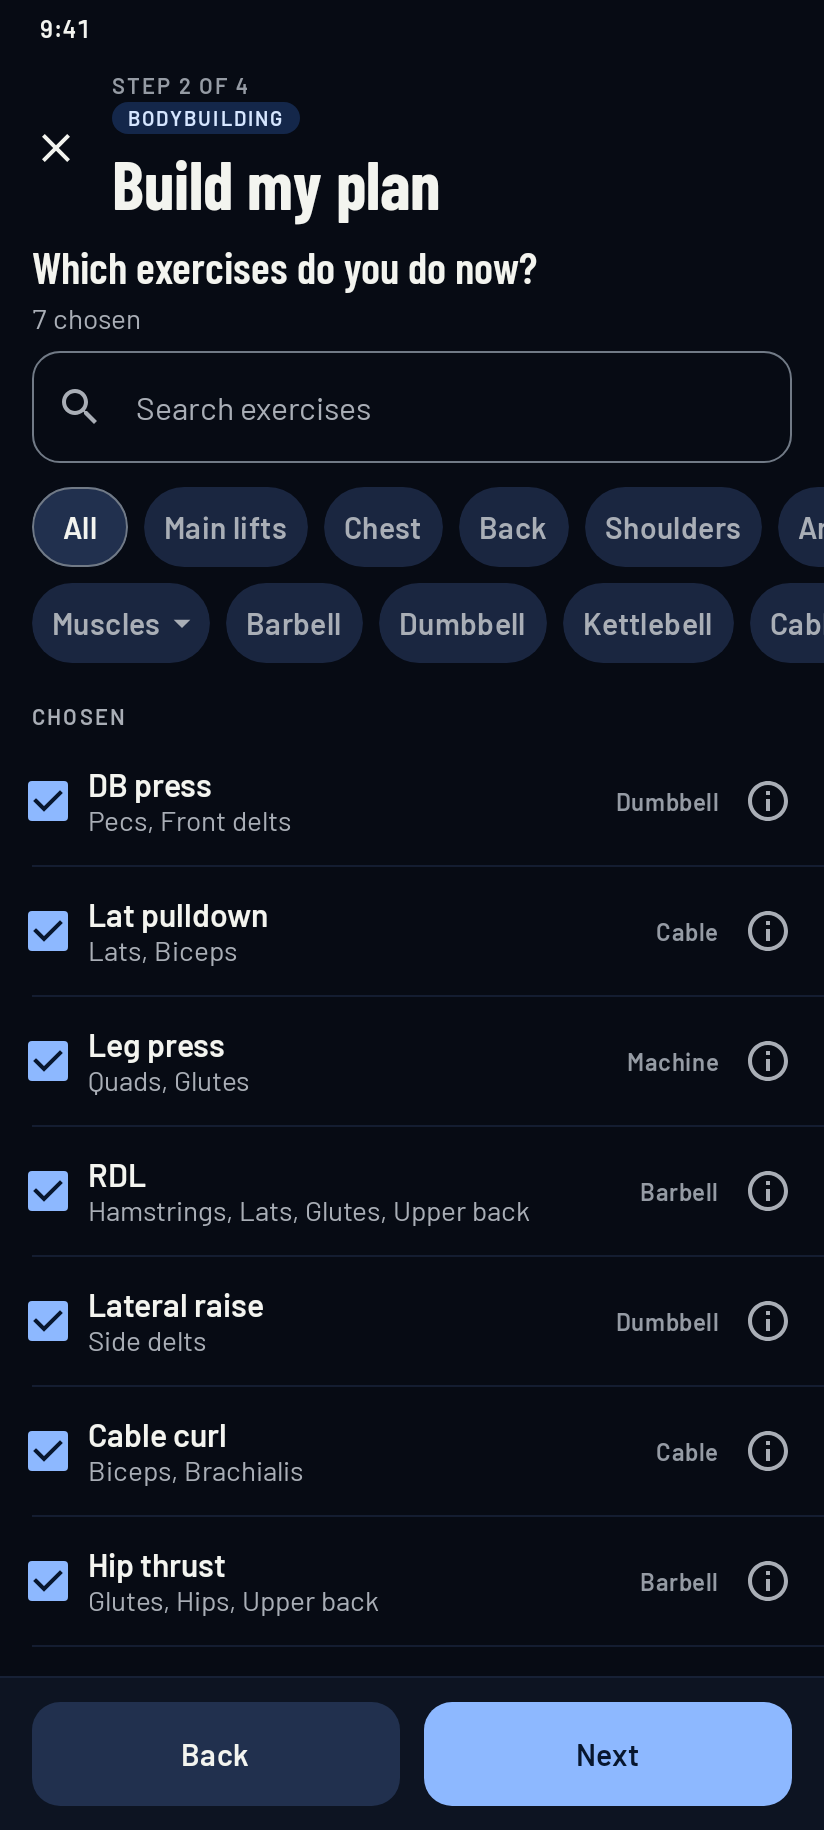
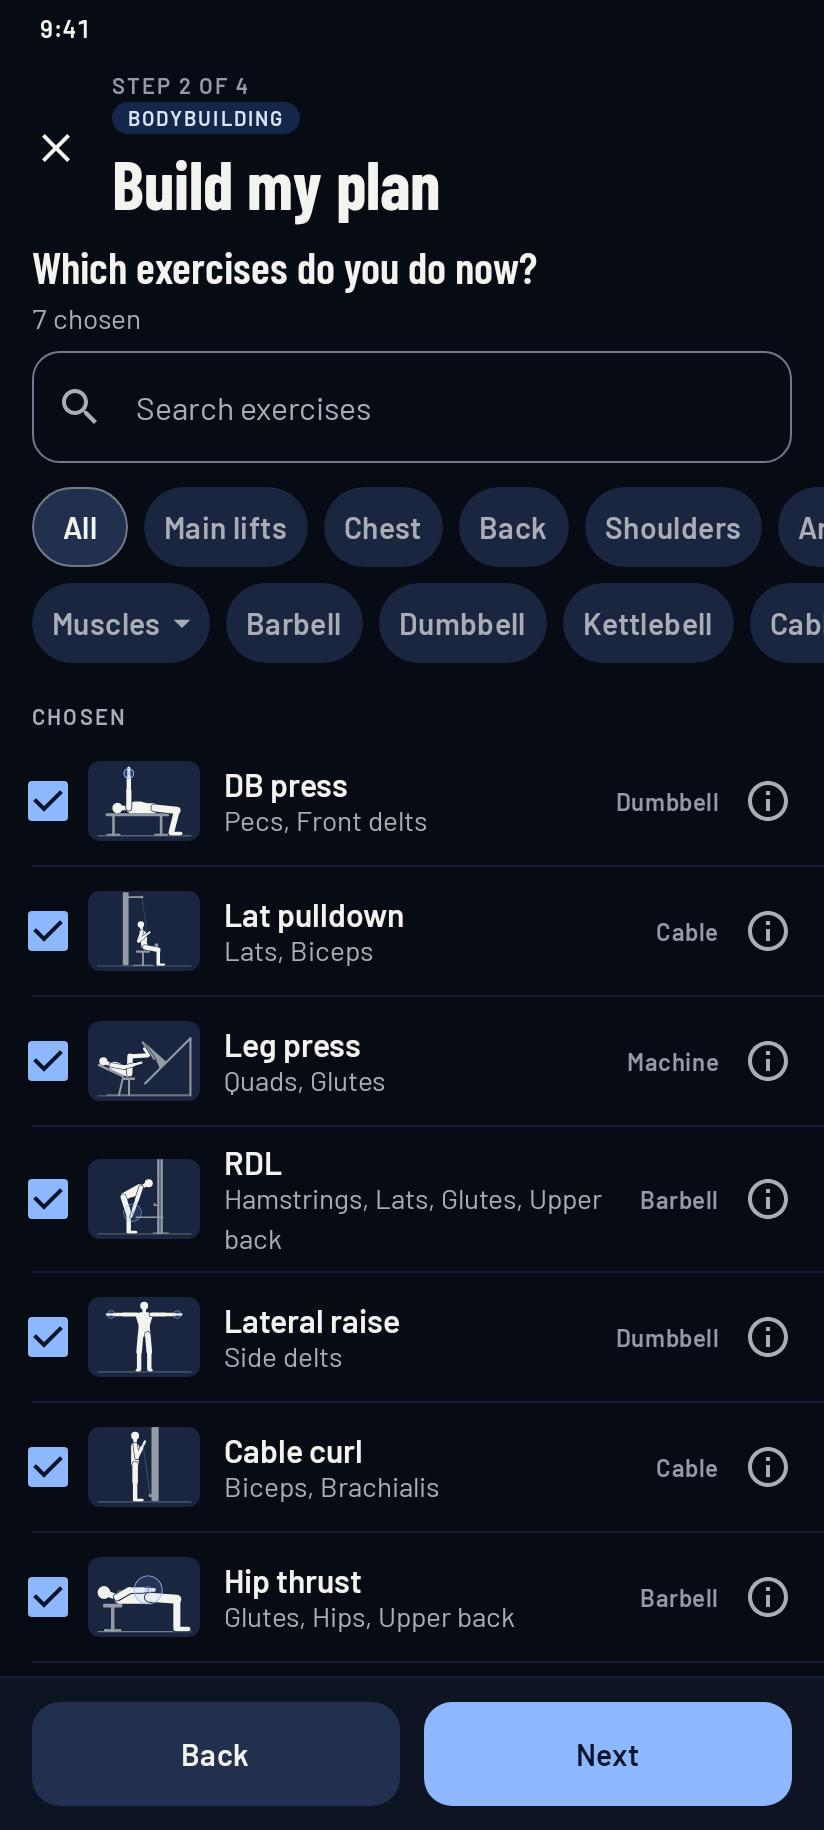
feat(app): thumbnails in the plan builder
The plan builder's exercise list leads each row with the thumbnail, as the
tab and the picker do. A ticked row also has its tick box, so on a screen
under 360 dp wide it shows no thumbnail and no empty tile: there the names
would otherwise break inside a word. The tab and the picker are unchanged
at every width.

Claude-Session: https://claude.ai/code/session_01KboHw6FdBYrNDSMx1QWyzy

diff --git a/app/src/test/kotlin/com/powertracker/ui/library/ExercisePictureTest.kt b/app/src/test/kotlin/com/powertracker/ui/library/ExercisePictureTest.kt
@@ -69,8 +69,8 @@ import org.robolectric.annotation.GraphicsMode
 import kotlin.math.abs
 
 /**
- * The exercise pictures: the two-pose picture in the guide sheet and the thumbnails on the Exercises tab and in the
- * picker. "Bench" is the exercise with a figure; a lookup that finds nothing stands in for one without.
+ * The exercise pictures: the two-pose picture in the guide sheet and the thumbnails on the Exercises tab, in the picker
+ * and in the plan builder. "Bench" is the exercise with a figure; a lookup that finds nothing stands in for one without.
  */
 // Native graphics, so text is measured at its real size and the canvas really draws: the checks here depend on both.
 @RunWith(RobolectricTestRunner::class)
@@ -315,6 +315,116 @@ class ExercisePictureTest {
             assertFalse("$side: nothing is drawn for it", drawnIn("exercise-Tyre flip"))
             assertEquals("$side: names stay aligned", benchName.left, textIn("exercise-Tyre flip", "Tyre flip").boundsInRoot.left, 0.5f)
         }
+    }
+
+    /** The names that broke inside a word in a ticked row at 320 dp with a thumbnail beside them. */
+    private val longNames = listOf(
+        "Safety-bar squat", "Chest-supported row", "Chest-supported T-bar row", "Neutral-grip pull-up",
+        "Chest-supported rear delt raise", "Smith shoulder press", "Concentration curl", "Bodyweight squat",
+    )
+
+    /** The plan builder's exercises step with [longNames] stored and ticked: each is under "Chosen" and in the list. */
+    private fun showBuilderWithLongNamesTicked() {
+        val stored = longNames.mapIndexed { i, n ->
+            val lib = Library.find(n)!!
+            Exercise(100L + i, lib.name, lib.category, lib.parentLift, lib.muscles, isBuiltIn = true)
+        }
+        val entries = stored.map(com.powertracker.ui.plan.builder.PlanBuilderViewModel::entryFor)
+        val ticked = entries.associate { com.powertracker.ui.plan.builder.pickKey(it) to com.powertracker.ui.plan.builder.PlanBuilderViewModel.chosen(it) }
+        val state = com.powertracker.ui.plan.builder.PlanBuilderState(
+            loading = false,
+            mode = TrainingMode.BODYBUILDING,
+            step = com.powertracker.ui.plan.builder.BuilderStep.EXERCISES,
+            exercises = stored,
+            recentIds = stored.map { it.id },
+            ticked = ticked,
+        )
+        mode = TrainingMode.BODYBUILDING
+        show {
+            com.powertracker.ui.plan.builder.PlanBuilderContent(
+                state,
+                com.powertracker.ui.plan.builder.PlanBuilderActions(isTicked = { com.powertracker.ui.plan.builder.pickKey(it) in state.ticked }),
+            )
+        }
+    }
+
+    /** [name] in [row] wraps only between words (or after a hyphen), never inside one. */
+    private fun assertNameWhole(row: String, name: String) {
+        val node = textIn(row, name)
+        val layouts = mutableListOf<TextLayoutResult>()
+        node.config[SemanticsActions.GetTextLayoutResult].action!!.invoke(layouts)
+        val layout = layouts.single()
+        val lines = (0 until layout.lineCount).map { name.substring(layout.getLineStart(it), layout.getLineEnd(it)) }
+        for (line in 0 until layout.lineCount - 1) {
+            val end = layout.getLineEnd(line, visibleEnd = true)
+            assertTrue("$row: \"$name\" is broken inside a word: $lines", name[end] == ' ' || name[end - 1] == ' ' || name[end - 1] == '-')
+        }
+    }
+
+    /** The row's tick, name, equipment and 48 dp info button, left to right inside the row. */
+    private fun assertRowFits(row: String, name: String) {
+        val bounds = node(row).boundsInRoot
+        compose.onNode(SemanticsMatcher.expectValue(SemanticsProperties.Role, androidx.compose.ui.semantics.Role.Checkbox) and hasTestTag(row), useUnmergedTree = true).assertExists()
+        val text = textIn(row, name).boundsInRoot
+        val info = compose.onNode(
+            androidx.compose.ui.test.hasClickAction() and androidx.compose.ui.test.hasAnyDescendant(androidx.compose.ui.test.hasContentDescription("Form guide for $name")) and hasAnyAncestor(hasTestTag(row)),
+            useUnmergedTree = true,
+        ).fetchSemanticsNode().boundsInRoot
+        assertTrue("$row: the name is inside the row", text.left >= bounds.left && text.right <= info.left)
+        assertTrue("$row: the info button is inside the row", info.right <= bounds.right + 0.5f)
+        assertTrue("$row: the info button keeps its 48 dp target", info.width >= toPx(48) - 0.5f && info.height >= toPx(48) - 0.5f)
+    }
+
+    /**
+     * The plan builder at 320 dp: a ticked row has its tick box, so under 360 dp it shows no thumbnail and no empty tile,
+     * and every long name stays whole. The picker at the same width keeps its thumbnails.
+     */
+    @Test
+    @Config(qualifiers = "w320dp-h2400dp-xhdpi")
+    fun planBuilder_tickedRow_namesWholeAt320() {
+        for (theme in listOf(true, false)) {
+            scenario?.close()
+            dark = theme
+            showBuilderWithLongNamesTicked()
+            assertEquals(toPx(320), compose.onRoot().fetchSemanticsNode().boundsInRoot.width, 0.5f)
+            for (name in longNames) {
+                for (row in listOf("chosen-$name", "exercise-$name")) {
+                    compose.onNodeWithTag("exercise-list").performScrollToNode(hasTestTag(row))
+                    assertTrue("$row has no tile", compose.onAllNodes(hasTestTag("exercise-thumbnail") and hasAnyAncestor(hasTestTag(row)), useUnmergedTree = true).fetchSemanticsNodes().isEmpty())
+                    assertNameWhole(row, name)
+                    assertRowFits(row, name)
+                }
+            }
+            compose.assertTextsFit()
+        }
+
+        // The picker is unchanged at this width: its rows keep the thumbnail.
+        scenario?.close()
+        mode = TrainingMode.POWERLIFTING
+        show { ExercisePickerContent("Add to Monday", SeedLibrary.exercises() + own, emptyList(), onPick = {}, onCreateCustom = { _, _, _, _ -> }, onClose = {}) }
+        compose.onNodeWithTag("exercise-list").performScrollToNode(hasTestTag("exercise-Concentration curl"))
+        assertEquals(toPx(56), tileOf("exercise-Concentration curl").boundsInRoot.width, 1f)
+        assertNameWhole("exercise-Concentration curl", "Concentration curl")
+    }
+
+    /** The plan builder at 360 dp: ticked rows show the tab's thumbnail, and the long names still stay whole. */
+    @Test
+    @Config(qualifiers = "w360dp-h2400dp-xhdpi")
+    fun planBuilder_showsThumbnailsAt360() {
+        showBuilderWithLongNamesTicked()
+        for (name in longNames) {
+            for (row in listOf("chosen-$name", "exercise-$name")) {
+                compose.onNodeWithTag("exercise-list").performScrollToNode(hasTestTag(row))
+                compose.waitUntil(10_000) { drawnIn(row) }
+                val tile = tileOf(row).boundsInRoot
+                assertEquals(toPx(56), tile.width, 1f)
+                assertEquals(toPx(40), tile.height, 1f)
+                assertTrue("$row: the name follows the tile", textIn(row, name).boundsInRoot.left > tile.right)
+                assertNameWhole(row, name)
+                assertRowFits(row, name)
+            }
+        }
+        compose.assertTextsFit()
     }
 
     @Test

diff --git a/app/src/main/kotlin/com/powertracker/ui/library/ExerciseBrowser.kt b/app/src/main/kotlin/com/powertracker/ui/library/ExerciseBrowser.kt
@@ -57,6 +57,7 @@ import androidx.compose.runtime.setValue
 import androidx.compose.ui.Alignment
 import androidx.compose.ui.Modifier
 import androidx.compose.ui.draw.clip
+import androidx.compose.ui.platform.LocalConfiguration
 import androidx.compose.ui.platform.testTag
 import androidx.compose.ui.semantics.Role
 import androidx.compose.ui.semantics.contentDescription
@@ -208,7 +209,10 @@ fun ExerciseBrowser(
     modifier: Modifier = Modifier,
     /** Opens "Create your own"; null where exercises are only browsed. */
     onCreate: (() -> Unit)? = null,
-    /** A small picture at the left of each row: the Exercises tab and the picker have them, the plan builder does not. */
+    /**
+     * A small picture at the left of each row: the Exercises tab, the picker and the plan builder have them. Ticked
+     * rows (the plan builder's) leave it out on screens under [TICKED_THUMBNAIL_MIN_WIDTH_DP] wide.
+     */
     showThumbnails: Boolean = false,
     /**
      * Multi-select: when set, every row is a tick box showing whether its exercise is chosen, and a row tap ([onRow])
@@ -240,7 +244,7 @@ fun ExerciseBrowser(
     BackHandler(enabled = muscle != null) { state.browse(null) }
     if (showThumbnails) {
         val thumbnails = LocalThumbnails.current
-        // The head start: from the first showing of any list with thumbnails (the tab or the picker),
+        // The head start: from the first showing of any list with thumbnails (the tab, the picker or the plan builder),
         // the loader's worker works out every catalogue thumbnail, in the order that list shows them. Only the first
         // call counts, so it runs once per process.
         LaunchedEffect(thumbnails) { thumbnails.warmUp(thumbnailOrder(list, byArea && area == null)) }
@@ -539,6 +543,9 @@ private fun ListHeading(text: String, modifier: Modifier = Modifier) {
     )
 }
 
+/** The narrowest screen, in dp, on which a ticked row (the plan builder's) shows its thumbnail. */
+internal const val TICKED_THUMBNAIL_MIN_WIDTH_DP = 360
+
 @Composable
 private fun BrowserRow(
     entry: PickerEntry,
@@ -581,7 +588,10 @@ private fun BrowserRow(
                 )
             }
             // The lifter's own exercise has no catalogue name, so its tile is empty.
-            if (showThumbnail) ExerciseThumbnail(entry.catalogueName, Modifier.padding(end = Space.m))
+            // A ticked row also has its tick box: on a screen under 360 dp wide there is no room for the thumbnail too
+            // without breaking long names inside a word, so it shows neither picture nor empty tile there.
+            val roomForThumbnail = ticked == null || LocalConfiguration.current.screenWidthDp >= TICKED_THUMBNAIL_MIN_WIDTH_DP
+            if (showThumbnail && roomForThumbnail) ExerciseThumbnail(entry.catalogueName, Modifier.padding(end = Space.m))
             Column(Modifier.weight(1f).padding(vertical = Space.s)) {
                 Text(entry.name, style = MaterialTheme.typography.titleMedium, color = scheme.onSurface)
                 if (entry.muscles.isNotEmpty()) {

diff --git a/app/src/main/kotlin/com/powertracker/ui/library/Thumbnails.kt b/app/src/main/kotlin/com/powertracker/ui/library/Thumbnails.kt
@@ -23,7 +23,8 @@ import java.util.concurrent.ConcurrentHashMap
 class Thumbnail(val shapes: List<Shape>?)
 
 /**
- * Works out the Exercises tab's thumbnails away from the main thread, and keeps the ones that are ready.
+ * Works out the thumbnails of the Exercises tab, the picker and the plan builder away from the main thread, and keeps
+ * the ones that are ready.
  *
  * All the work (the [figureFor] lookup, which solves the figure's poses the first time, and [shapesFor]) is done by
  * one worker coroutine on [dispatcher], one thumbnail at a time, so it never competes with itself for the cores.
@@ -151,5 +152,8 @@ internal val catalogueFigure: (String) -> ExerciseFigure? = { Library.figure(it)
 /** The catalogue's thumbnails, for the life of the process. */
 val CatalogueThumbnails = ThumbnailLoader(catalogueFigure)
 
-/** Where the Exercises tab gets its thumbnails; tests provide a loader of their own. */
+/**
+ * Where the rows of the Exercises tab, the picker and the plan builder get their thumbnails; tests provide a loader of
+ * their own.
+ */
 val LocalThumbnails = staticCompositionLocalOf { CatalogueThumbnails }

diff --git a/app/src/main/kotlin/com/powertracker/ui/plan/builder/PlanBuilderScreen.kt b/app/src/main/kotlin/com/powertracker/ui/plan/builder/PlanBuilderScreen.kt
@@ -316,6 +316,7 @@ private fun ExercisesStep(state: PlanBuilderState, actions: PlanBuilderActions) 
             modifier = Modifier.weight(1f),
             ticked = { entry -> state.ticked.containsKey(pickKey(entry)) },
             chosen = state.chosen,
+            showThumbnails = true,
         )
     }
     guideFor?.let { name -> FormGuideSheet(name, onDismiss = { guideFor = null }) }
